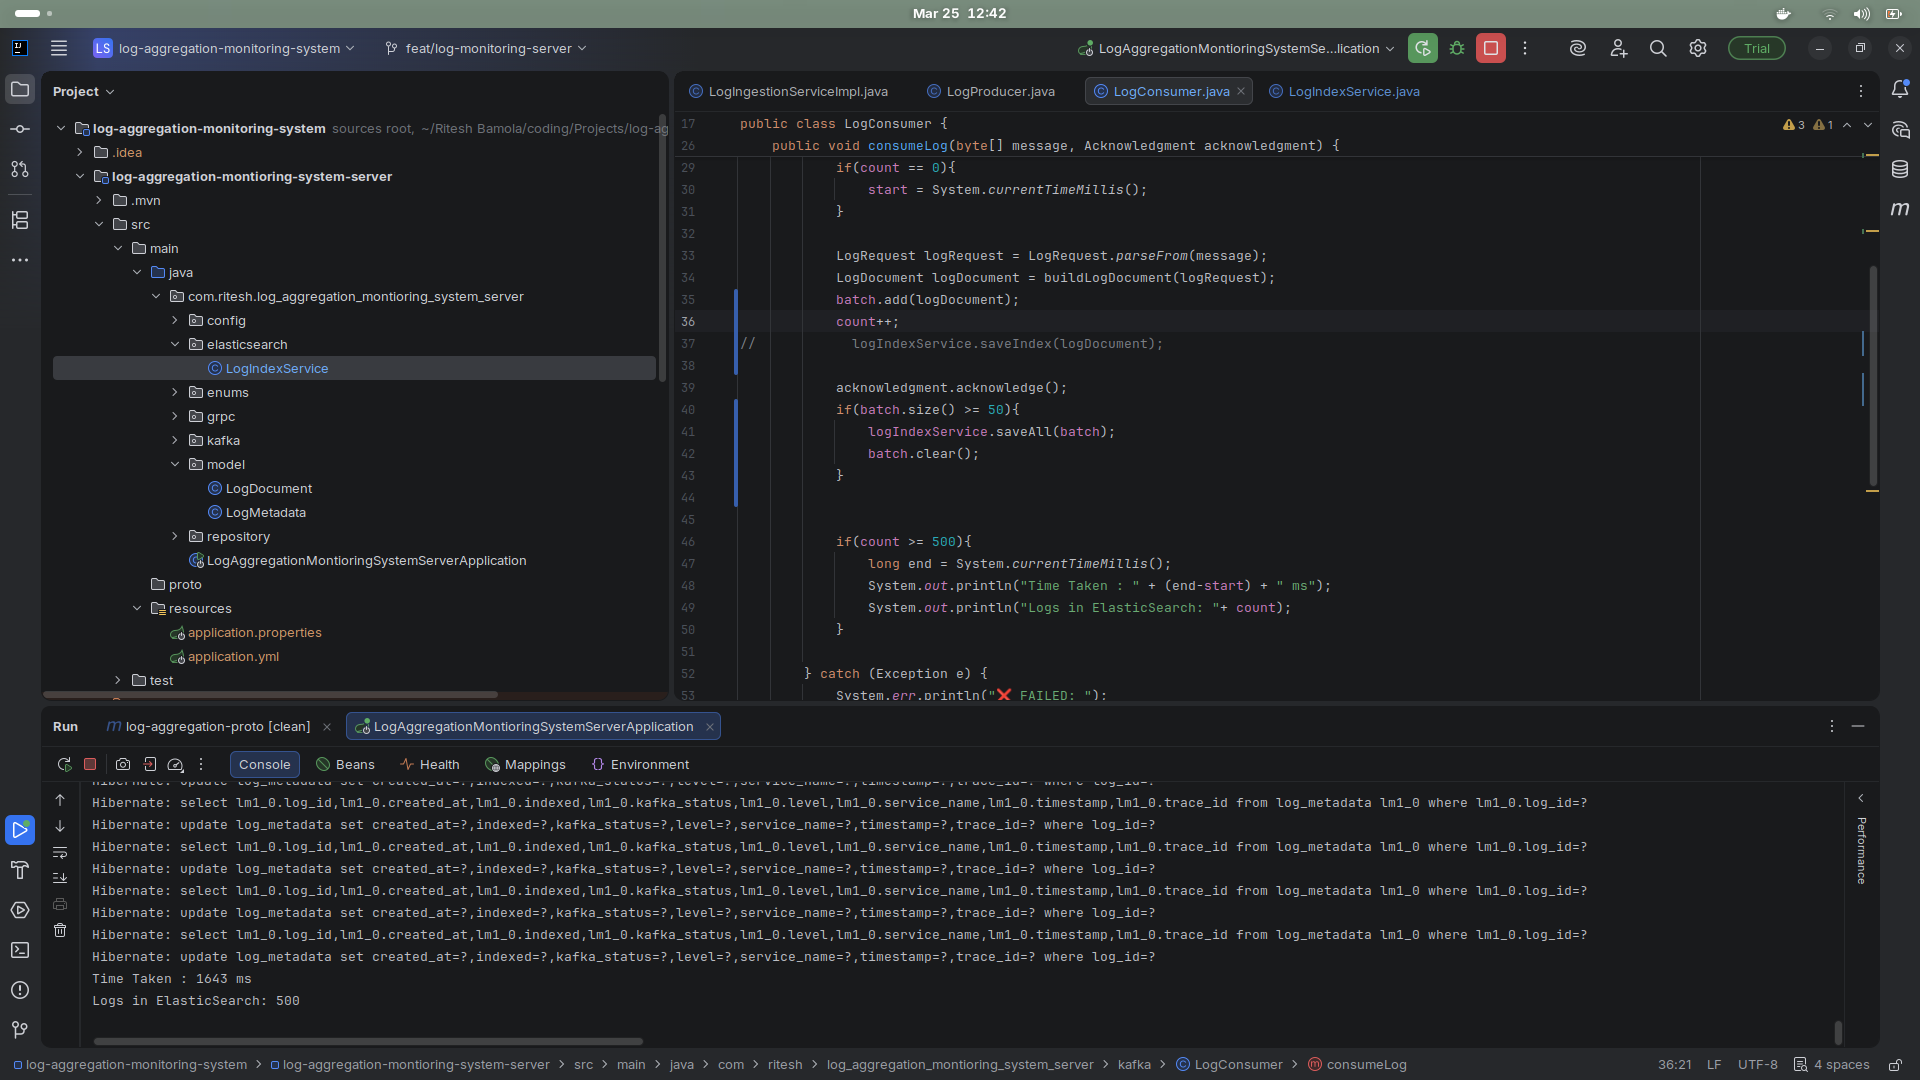
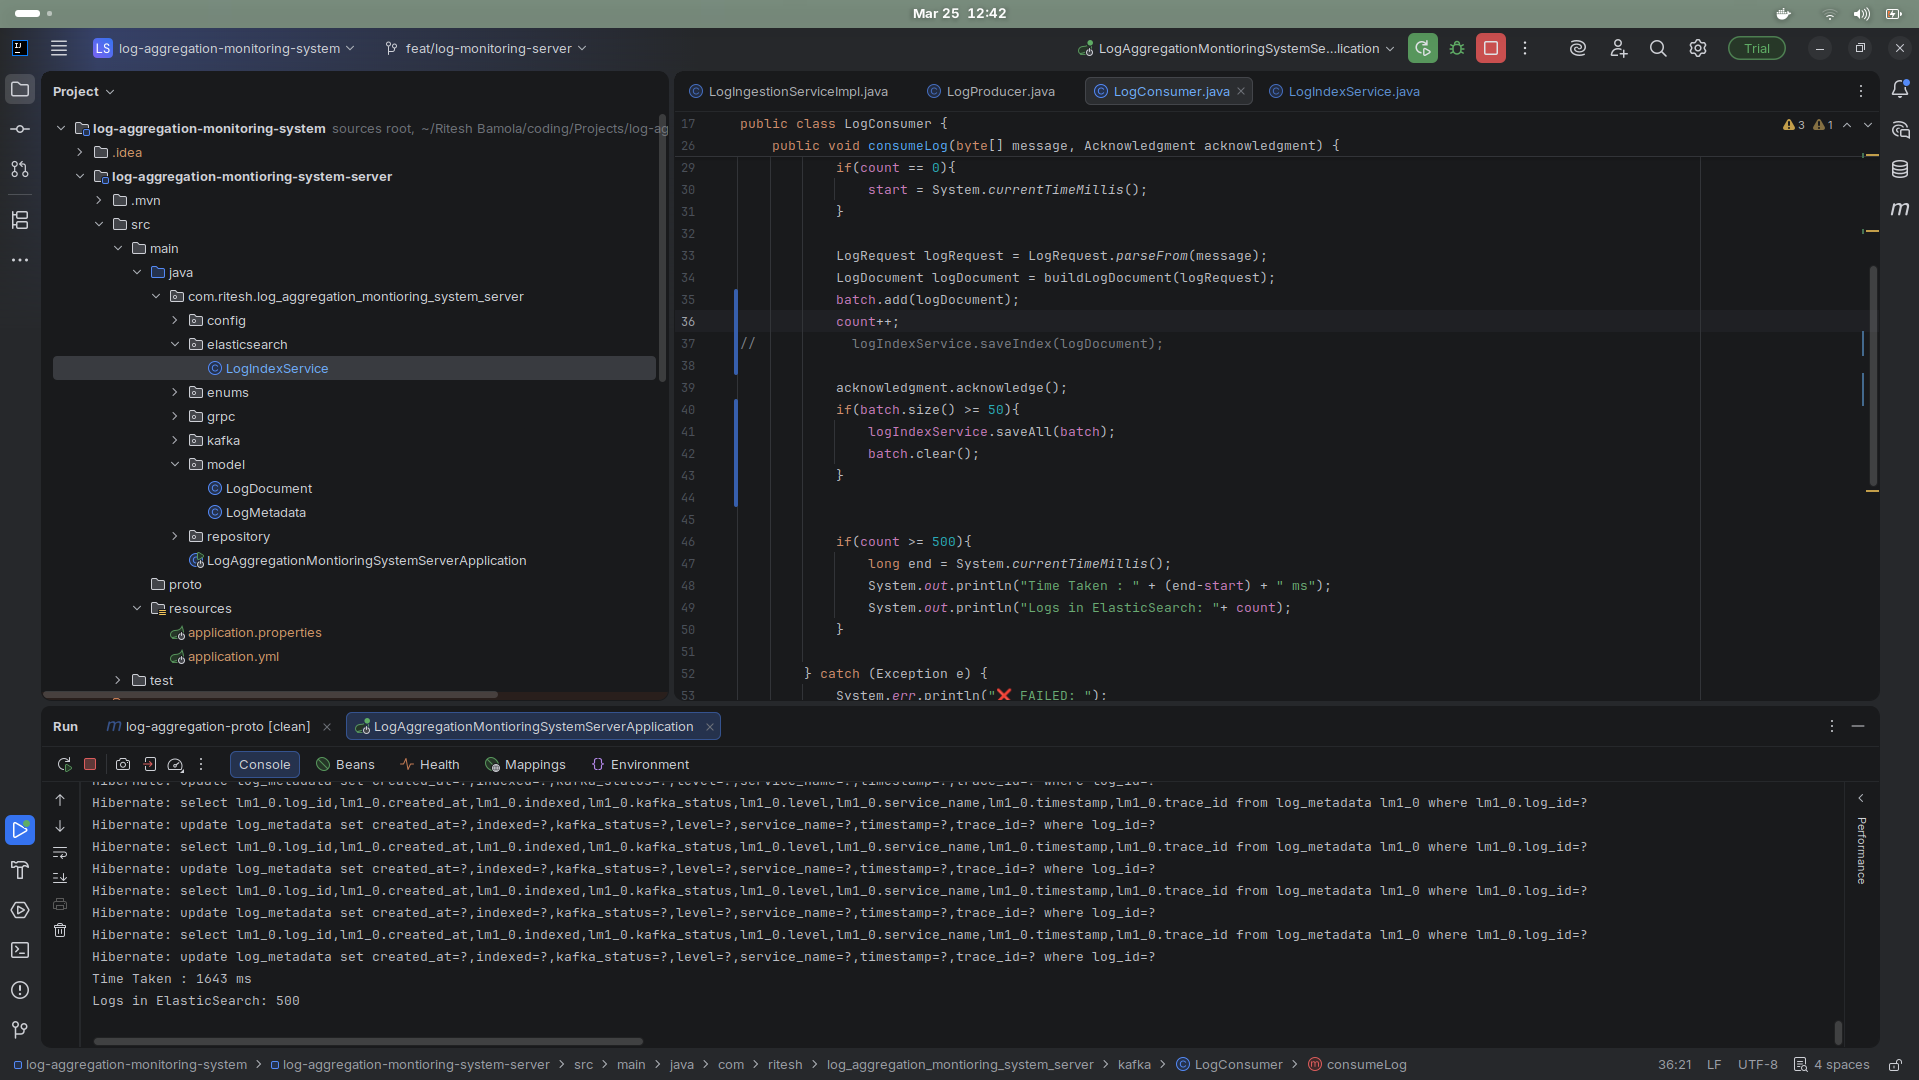
Changed Topic and GroupId

diff --git a/log-aggregation-montioring-system-server/src/main/java/com/ritesh/log_aggregation_montioring_system_server/config/KafkaConfig.java b/log-aggregation-montioring-system-server/src/main/java/com/ritesh/log_aggregation_montioring_system_server/config/KafkaConfig.java
@@ -26,10 +26,10 @@ public class KafkaConfig {
     public ConsumerFactory<String, byte[]> consumerFactory() {
         Map<String, Object> props = new HashMap<>();
         props.put(ConsumerConfig.BOOTSTRAP_SERVERS_CONFIG, "localhost:9092");
-        props.put(ConsumerConfig.GROUP_ID_CONFIG, "group_id");
+        props.put(ConsumerConfig.GROUP_ID_CONFIG, "log-consumer");
         props.put(ConsumerConfig.AUTO_OFFSET_RESET_CONFIG, "earliest");
         props.put(ConsumerConfig.KEY_DESERIALIZER_CLASS_CONFIG, StringDeserializer.class);
-        props.put(ConsumerConfig.VALUE_DESERIALIZER_CLASS_CONFIG, ByteArrayDeserializer.class); // ← changed
+        props.put(ConsumerConfig.VALUE_DESERIALIZER_CLASS_CONFIG, ByteArrayDeserializer.class); 
         return new DefaultKafkaConsumerFactory<>(props);
     }
 
@@ -48,7 +48,7 @@ public class KafkaConfig {
     @Bean
     public ProducerFactory<String, byte[]> producerFactory() {
         Map<String, Object> props = new HashMap<>();
-        props.put(ProducerConfig.BOOTSTRAP_SERVERS_CONFIG, "localhost:9092"); // ← this was missing
+        props.put(ProducerConfig.BOOTSTRAP_SERVERS_CONFIG, "localhost:9092");
         props.put(ProducerConfig.KEY_SERIALIZER_CLASS_CONFIG, StringSerializer.class);
         props.put(ProducerConfig.VALUE_SERIALIZER_CLASS_CONFIG, ByteArraySerializer.class);
         props.put(ProducerConfig.ACKS_CONFIG, "all");

diff --git a/log-aggregation-montioring-system-server/src/main/java/com/ritesh/log_aggregation_montioring_system_server/kafka/LogConsumer.java b/log-aggregation-montioring-system-server/src/main/java/com/ritesh/log_aggregation_montioring_system_server/kafka/LogConsumer.java
@@ -22,7 +22,7 @@ public class LogConsumer {
     private int count=0;
     private List<LogDocument> batch = new ArrayList<>();
 
-    @KafkaListener(topics = "my_topic", groupId = "group_id")
+    @KafkaListener(topics = "logs.ingestion", groupId = "log-consumer")
     public void consumeLog(byte[] message, Acknowledgment acknowledgment) {
         try {
 

diff --git a/log-aggregation-montioring-system-server/src/main/java/com/ritesh/log_aggregation_montioring_system_server/kafka/LogProducer.java b/log-aggregation-montioring-system-server/src/main/java/com/ritesh/log_aggregation_montioring_system_server/kafka/LogProducer.java
@@ -17,7 +17,7 @@ public class LogProducer {
 
 
 
-    private static final String TOPIC = "my_topic";
+    private static final String TOPIC = "logs.ingestion";
     private final KafkaTemplate<String, byte[]> kafkaTemplate;
 
     public LogProducer(KafkaTemplate<String, byte[]> kafkaTemplate) {

diff --git a/Readme.md b/Readme.md
@@ -7,11 +7,21 @@ A scalable backend system designed to **collect, process, and monitor logs in re
 ## 🚀 Features
 
 * 📥 High-throughput log ingestion via **gRPC**
-* 🧵 Distributed messaging using **Apache Kafka**
-* ⚡ Concurrent log processing
-* 📦 Batch indexing for performance optimization
-* 🔍 Fast log querying using **Elasticsearch**
-* 📊 Monitoring-ready architecture
+* Unary RPC: `LogService.IngestLog(LogRequest) -> LogResponse`
+* Client-streaming RPC: `LogService.BulkIngest(stream LogRequest) -> LogSummary`
+* 🧵 Asynchronous decoupling using **Apache Kafka**
+* Kafka topic: `my_topic` (message key: `logId`)
+* Kafka consumer group: `group_id`
+* ⚡ High-throughput processing
+* Kafka listener container concurrency: `3`
+* Batching: flush to Elasticsearch when `batch.size() >= 50`
+* 💾 Metadata persistence using **PostgreSQL (Hibernate/JPA)**
+* Table: `log_metadata`
+* Tracks `kafkaStatus` as `PENDING / SENT / FAILED`
+* 🔎 Indexing readiness using **Elasticsearch**
+* Elasticsearch index: `logs`
+* Document mapping is defined in `LogDocument`
+* 📊 Interview-ready performance story: README includes measured baseline vs batch vs concurrent runs
 
 ---
 
@@ -21,19 +31,32 @@ A scalable backend system designed to **collect, process, and monitor logs in re
 
 **Flow:**
 
-* **gRPC Producer → Kafka Topic → Kafka Consumer → Elasticsearch**
-* Metadata stored via **Hibernate (DB)**
-* Logs indexed for fast search & monitoring
+* `LogService.IngestLog` / `LogService.BulkIngest` (gRPC) receive a `LogRequest`
+* The server saves `LogMetadata` into PostgreSQL table `log_metadata` (`indexed=false`, `kafkaStatus=PENDING`)
+* gRPC publishes the log bytes to Kafka topic `logs.ingestion` (key: `logId`)
+* Kafka consumer (group `log-consumer`) batches messages (batch size `50`) and indexes into Elasticsearch index `logs`
+* Note: the current code tracks `kafkaStatus` (SENT/FAILED) but does not flip `indexed=true` after Elasticsearch indexing
+
+---
+
+## 🧩 gRPC API
+
+* Service: `LogService`
+* `IngestLog(LogRequest) returns (LogResponse)` (single request)
+* `BulkIngest(stream LogRequest) returns (LogSummary)` (client-streaming)
+* `LogRequest` fields: `log_id`, `level`, `service_name`, `trace_id`, `message`, `timestamp`
+* Server behavior: if `timestamp` is blank, it uses `Instant.now()`
 
 ---
 
 ## 🛠 Tech Stack
 
 * Java (Spring Boot)
+* Spring gRPC
+* Protocol Buffers
 * Apache Kafka
-* gRPC
+* PostgreSQL (Spring Data JPA / Hibernate)
 * Elasticsearch
-* Hibernate (JPA)
 
 ---
 
@@ -41,18 +64,18 @@ A scalable backend system designed to **collect, process, and monitor logs in re
 
 ```bash
 log-aggregation-monitoring-system/
-│
-├── log-aggregation-monitoring-system-server/
-│   ├── config/
-│   ├── kafka/
-│   ├── grpc/
-│   ├── elasticsearch/
-│   ├── model/
-│   ├── repository/
-│   └── proto/
-│
-├── application.yml
-└── pom.xml
+├── images/
+├── log-aggregation-proto/
+│   └── src/main/proto/log_aggregation.proto
+└── log-aggregation-montioring-system-server/
+    ├── pom.xml
+    └── src/main/java/com/ritesh/log_aggregation_montioring_system_server/
+        ├── grpc/
+        ├── kafka/
+        ├── elasticsearch/
+        ├── model/
+        ├── repository/
+        └── config/
 ```
 
 ---
@@ -60,15 +83,20 @@ log-aggregation-monitoring-system/
 ## ⚙ Setup & Run
 
 ### 1. Start Dependencies
+* Kafka broker at `localhost:9092` (Zookeeper depends on your Kafka setup)
+* Elasticsearch (typically `http://localhost:9200`, unless configured)
+* PostgreSQL configured for JPA entity `log_metadata`
 
-* Kafka (with Zookeeper)
-* Elasticsearch
-
-### 2. Run Application
+### 2. Build & Run
 
 ```bash
-mvn spring-boot:run
+cd "log-aggregation-proto" && ./mvnw -q clean package
+cd "../log-aggregation-montioring-system-server" && ./mvnw spring-boot:run
 ```
+
+> Note:
+> * Kafka topic/group and bootstrap server are currently hard-coded (`my_topic`, `group_id`, `localhost:9092`).
+> * Add `application.yml` or `application.properties` inside `log-aggregation-montioring-system-server/` for Elasticsearch + PostgreSQL connection settings.
 
 ---
 
@@ -82,8 +110,8 @@ mvn spring-boot:run
 
 **Description:**
 
-* Logs are consumed one by one
-* Each log is indexed immediately
+* Intended baseline: per-log indexing
+* In this repo, per-log indexing is disabled and batching is used (`batch.size() >= 50`)
 
 **Result:**
 
